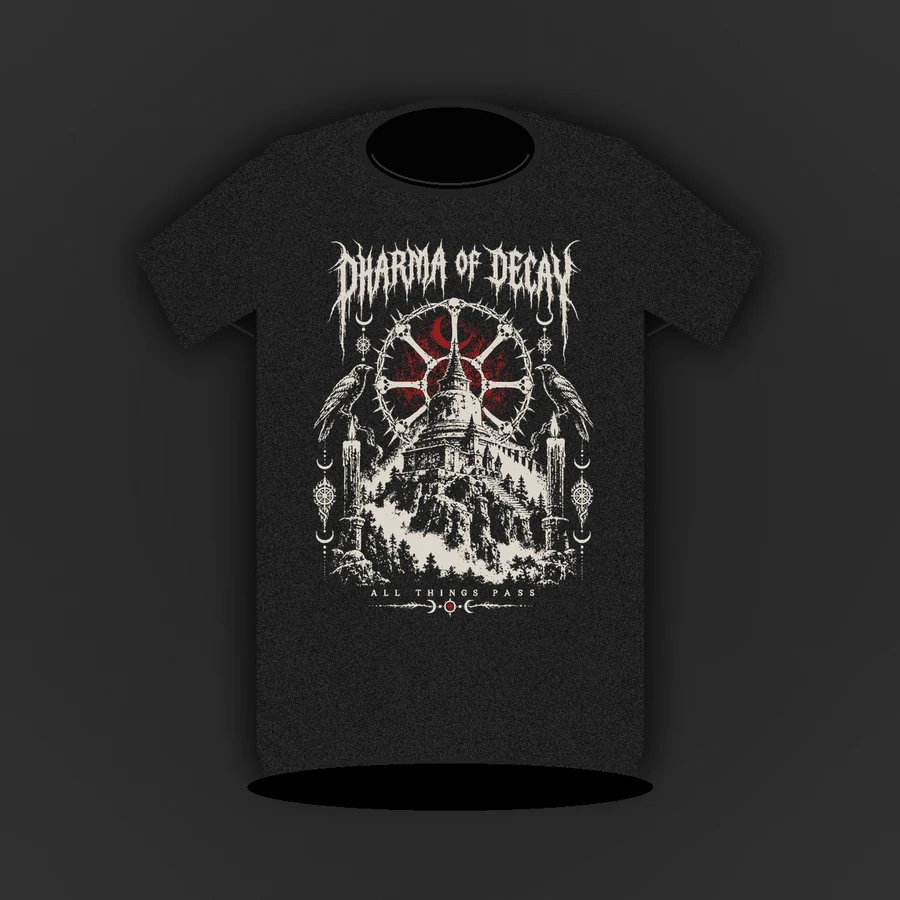
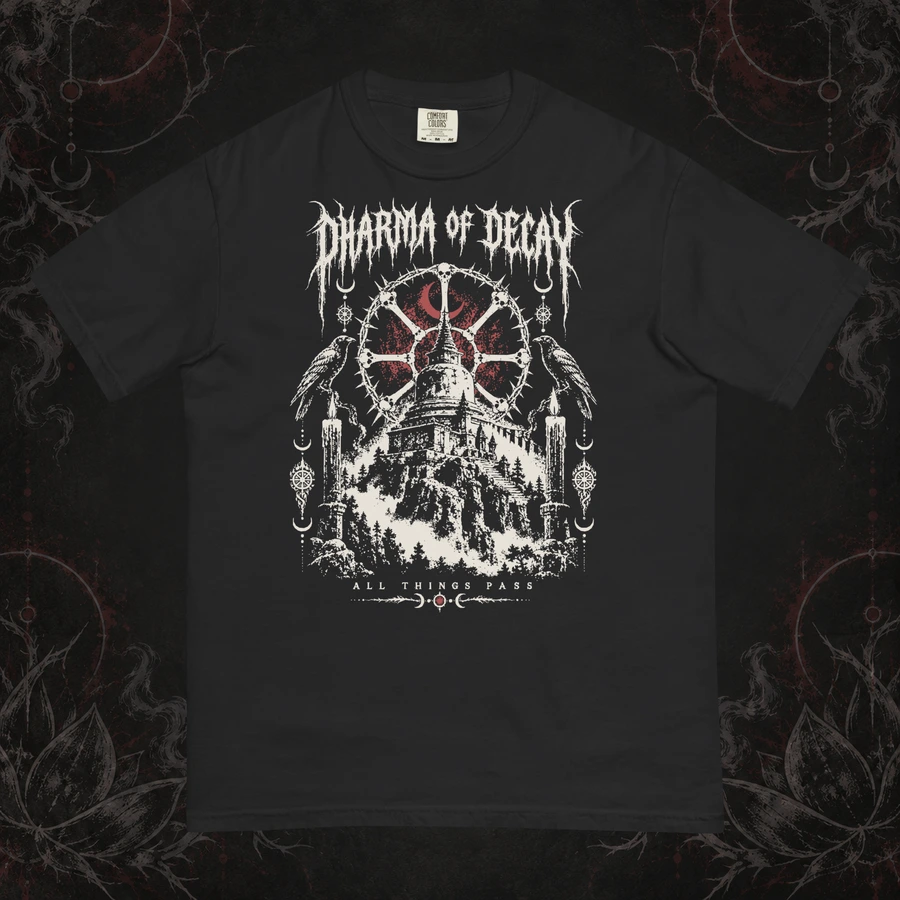
Create native Printful mockups with shared charcoal overlay scene

diff --git a/docs/26_LAUNCH_STATUS.md b/docs/26_LAUNCH_STATUS.md
@@ -6,87 +6,69 @@ provider configuration and a controlled production order.
 
 ## Confirmed decisions
 
-- Physical sample approved by the owner on 2026-10-01.
-- Garment: Comfort Colors 1717 Unisex Garment-Dyed Heavyweight T-Shirt.
-- Sizes: S, M, L, XL, XXL (SKU code `2XL`).
-- Price: **$35.00 USD per shirt in every size, plus shipping and applicable tax**,
-  selected by the owner on 2026-10-02 with Blackcraft as the market reference.
-- Four designs and 20 Black variant SKUs. Production and private staging each
-  have 20 records priced at 3500 cents, inactive and unsellable. Production’s 20
-  Printful mappings are verified; staging mappings remain empty. See [the SKU guide](25_PRODUCT_SKUS.md).
-- The corrected approved WebP from remote main commit
-  `83bbe7142fd617a1bf4fc6f546c0451d4ec7db51` fully decodes as 384 × 384.
-  It is 13,334 bytes, its RIFF length matches the file, and its SHA-256 is
[1 lines of base64/hex data omitted]
-  The incomplete PNG was removed upstream. The site uses the repaired WebP
-  with cache version `6e73625e`.
+- The owner approved the physical sample.
+- Garment: Black Comfort Colors 1717 Unisex Garment-Dyed Heavyweight T-Shirt.
+- Website launch sizes: S, M, L, XL, XXL (`2XL` in SKUs), pending confirmation
+  whether to include the saved Printful 3XL and 4XL variants.
+- Price: **$35.00 USD per shirt in every size, plus shipping and applicable tax**.
+- All four designs are saved in Printful with seven synced sizes each, S–4XL.
+  The website's 20 S–XXL variants have verified production mappings and remain
+  inactive and unsellable. See [the SKU guide](25_PRODUCT_SKUS.md).
+- The corrected approved logo fully decodes and is in use.
 
-## Software and infrastructure evidence
+## Native mockup scenes
 
-| Requirement | Evidence | Limit |
-| --- | --- | --- |
-| Source | Remote repository is `santyr/black_metal_buddha`; [PR #20](https://github.com/santyr/black_metal_buddha/pull/20) is merged, and main commit `fd0c4f6` and its 184 verified source files form the base of the reviewed follow-up release | Release metadata records the exact deployed commit and rollback targets |
-| Tests | Main passed 129 checks; the follow-up passes 131, including exact logo checksum/container length, all four shirt mockups, and $35 preview price assertions for products, cart, and FAQ | Two dependency deprecation warnings; no live provider transactions |
-| Browser | The corrected audit passed all 26 local page/viewport checks against the deployed application, verifying page identity, product images, decoding, preview cart, malformed data, and blocked storage | The post-deployment local browser rerun timed out, as did direct public navigation and optional screenshots; no post-deployment browser pass is claimed. Public HTTPS, asset checksums, and full Pillow decoding pass |
-| Printful | Production access is verified; all four products have seven synced Black CC1717 sizes, S–4XL, at $35; the 20 S–XXL production SKUs are mapped; eight signed webhook subscriptions are configured; a synthetic callback passed signature and deduplication checks | Final website size range, native storefront mockups, actual provider event delivery, and real fulfillment/canary remain |
-| Database | PostgreSQL 18.6, local peer authentication, migrations through `0007_refund_requests`, 20 reserved production SKUs | No live orders |
-| Services | Production web, worker, PostgreSQL, and daily local backup timer verified active | Reconciliation remains disabled until provider credentials are configured |
-| Staging | Separate Unix/PostgreSQL role `bmbstaging`, separate database, localhost-only service on 8091 | Public HTTPS, signed callbacks, and sandbox credentials remain |
-| Backup | Custom-format backup with checksum restored into a disposable database; migrations and reserved variants verified | Encrypted off-host copy remains |
-| Checkout | Public `/checkout` is 404 and `/api/v1/catalog` is 503 | Sales disabled |
-| Owner console | `/admin` remains 404 and credentials remain empty | Automatic approval review rejected activation without explicit owner authorization |
+All four products now use Printful Flat / Front renders of the saved Black
+Comfort Colors 1717 Medium variant. A shared charcoal texture has faint bone-gray
+lotus/thorn and muted-red eclipse overlays around its edges. Lossless scene
+assembly preserves every fully opaque native garment pixel. Storefront exports
+are 900 × 900 WebPs; saved Printful product thumbnails are 2000 × 2000 JPEGs.
+All 28 saved variants, original production files, SKUs, options, and $35 prices
+were verified unchanged after the thumbnail updates.
 
-The earlier malformed logo in commit `a33277d` is superseded by the repaired
-asset above. Earlier evidence about its failed decoding does not describe the
-current source. Pricing is settled; actual fulfillment costs must still be
-checked in the configured Printful account before sales activation.
+The Lotus render uses the 600 × 800 preview of its existing Printful-uploaded
+artwork because the API does not expose its original download URL. Its 3600 ×
+4800 production file remains unchanged. The other three use the exact saved
+production PNG URLs. These images are visual previews; the physical sample and
+canary still establish print and fulfillment quality.
 
-## Verification environment
+Scene exports and the reusable background live in
+`app/static/product-scenes/20261002-charcoal/`. The accompanying `provenance.json`
+and `printful-previews.json` record image checksums and provider readback.
+This saves product thumbnails, not a reusable Dashboard Scene object. The
+background can be uploaded into Printful's scene editor separately.
 
-The temporary filesystem quota reached 247 MB of its 300 MB user limit. An
-obsolete 116 MB review checkout was removed only after all 175 source files
-were verified as preserved in Git and a recovery archive was checked. Usage
-fell to 131 MB and normal Chromium blank-page rendering succeeded.
+## Verification and limits
 
-The page audit now waits for document content and verifies the requested URL,
-visible heading, branding, and expected product images before checking images
-and cart behavior. The previous network-idle wait timed out on otherwise
-loadable pages. This follows [Playwright navigation guidance](https://playwright.dev/python/docs/api/class-page#page-goto).
-
-Production Printful access and signing keys are now installed privately. Square
-access/signing keys, SMTP sender/access, support contact, and owner-console
-credentials remain absent. Staging has separate settings and still lacks provider
-access. Live transactions and native storefront mockups remain unverified.
+- The earlier application follow-up passed 131 tests and 26 local browser
+  checks. This asset update uses image decoding, pixel comparison, checksum
+  checks, and provider readback; no new test-suite pass is claimed.
+- Production Printful access and signed webhook subscriptions are configured.
+  Synthetic signature and deduplication checks passed. Actual provider event
+  delivery still needs the real canary.
+- Public purchasing and the owner console remain closed. Staging remains
+  isolated from production provider credentials.
+- Operational deployment, rollback, and backup records are kept privately.
+  They are excluded from this public status document.
 
 ## Remaining owner inputs
 
-Follow [the step-by-step launch handoff](28_LAUNCH_INPUT_HANDOFF.md). It covers:
+Follow [the step-by-step launch handoff](28_LAUNCH_INPUT_HANDOFF.md):
 
-1. Review the four now-published Printful products and confirm the website size
-   range and what the approved physical sample covers.
-2. Production Printful access and S–XXL mappings are verified; provide a designated
-   test store for isolated staging. Real provider callbacks still need the canary.
-3. Provide production and sandbox Square access, merchant location, signed
-   webhook configuration, and approved tax settings.
-4. Verify an email sender and supply SMTP access plus a working support address.
-5. Confirm selling countries and policies; explicitly authorize the owner console
-   if it should be enabled.
-6. Supply an encrypted off-host backup destination and staging hostname/DNS access.
-7. Complete a controlled real checkout, review fulfillment costs, and confirm
-   delivered email, tracking, and product quality.
+1. Review the four Printful products and their mockups; confirm the website size
+   range and which designs the physical sample approval covers.
+2. Provide a designated Printful test store for isolated staging.
+3. Provide Square production/sandbox access, merchant location, signed webhook
+   configuration, and approved tax settings through a secure channel.
+4. Verify the email sender; provide SMTP access and a working support address.
+5. Confirm selling countries and policies. Explicitly request owner-console
+   activation if desired.
+6. Provide an encrypted off-host backup destination and staging hostname/DNS
+   access through the secure handoff.
+7. Complete a controlled real checkout and confirm fulfillment costs, delivered
+   email, tracking, and physical product quality.
 
-Then record catalog/canary approvals, enable checkout through
-[the launch runbook](24_PHASE1_LAUNCH_RUNBOOK.md), and verify public transactions
-and monitoring. Do not mark the full store goal complete until that flow is proven.
-
-## Deployment and rollback records
-
-Current and staging point into `/opt/blackmetalbuddha/releases/`. Each release's
-`DEPLOYMENT.json` identifies its commit, deployment time, source, and rollback
-location. Previous source targets are retained for rollback. Runtime secrets,
-local databases, and backup artifacts are excluded from Git.
-
-Prices before the $35 update are archived privately at
-`/opt/blackmetalbuddha/backups/pre-price-update-20261002T020525Z/`.
-Fresh database dumps and SHA-256 sidecars are under
-`/var/backups/blackmetalbuddha/`.
+After the canary and catalog approvals are recorded, follow
+[the launch runbook](24_PHASE1_LAUNCH_RUNBOOK.md) to enable checkout and verify
+public transactions and monitoring. The full store goal remains incomplete
+until that flow is proven.

diff --git a/docs/28_LAUNCH_INPUT_HANDOFF.md b/docs/28_LAUNCH_INPUT_HANDOFF.md
@@ -36,7 +36,16 @@ These are catalog product prices, not delivered-order totals. Shipping, tax, and
 
 **Production setup completed:** Lotus of the Void, Dharma of Decay, Meditate on Death, and Longchenpa — Rest in Illusion are saved in the Black Metal Buddha store. Each has seven synced Black Comfort Colors 1717 variants at $35.00. Lotus’s generated SKUs were replaced with the reserved BMB SKUs while preserving its saved artwork, variant IDs, and prices. The other three use the approved 3600 × 4800 production PNGs pinned to a verified repository commit. All 20 existing S–XXL website variants are mapped and remain inactive.
 
-**Remaining:** Confirm the website launch range, review the three new saved products in Printful, and confirm which designs the physical sample approval covers. Native storefront mockups and the real fulfillment canary remain unverified.
+**Remaining:** Confirm the website launch range, review the three new saved products in Printful, and confirm which designs the physical sample approval covers. All four native shirt mockups are created and saved as Printful product thumbnails; the real fulfillment canary remains unverified.
+
+**Review the new mockups:**
+
+1. Open Printful → Stores → Black Metal Buddha and review the thumbnails on Lotus of the Void, Dharma of Decay, Meditate on Death, and Longchenpa — Rest in Illusion.
+2. Compare the artwork size and placement with your approved physical sample. Tell me which designs that approval covers.
+3. Confirm whether the website should retain S–XXL or include the saved Printful 3XL and 4XL variants.
+4. For a reusable scene inside Printful’s Dashboard editor, download [the charcoal background](https://blackmetalbuddha.com/static/product-scenes/20261002-charcoal/charcoal-scene-background.jpg), upload it as your background, and save the scene using the available [Custom Mockup Maker controls](https://help.printful.com/hc/en-us/articles/50266361810577-What-is-the-Custom-Mockup-Maker-and-how-to-use-it). The API updates product thumbnails; it does not create a Dashboard Scene preset. Printful may show its newer AI mockup interface instead.
+
+The shirt layers come from Printful’s native Flat / Front renderer. The faint lotus, thorn, and eclipse decorations belong to the shared background. Lotus’s mockup uses the saved uploaded artwork’s provider preview; its full-resolution production print file is preserved. The other three use their saved production PNGs. Mockup images do not replace the physical sample check.
 
 **Reference procedure:**
 
@@ -134,14 +143,7 @@ These are catalog product prices, not delivered-order totals. Shipping, tax, and
 
 ## How to hand off settings securely
 
-Production settings are in `/etc/blackmetalbuddha/blackmetalbuddha.env`. Staging settings are in `/etc/blackmetalbuddha-staging/staging.env`. If you have SSH access, edit the appropriate file with:
-
-```bash
-sudoedit /etc/blackmetalbuddha/blackmetalbuddha.env
-sudoedit /etc/blackmetalbuddha-staging/staging.env
-```
-
-Update the credential entries for the relevant step and leave the launch switches at their current values. Tell me which file is ready; I will validate it and handle activation. Alternatively, provide the location of a secure file or password-manager item that I can access. Keep secret values out of chat, Git, and this document. Square production credentials and sandbox credentials belong in their separate files.
+Keep production and staging credentials in separate private settings files or password-manager items. Use the private operational handoff for server-specific locations. Update the entries for the relevant step and leave the launch switches at their current values. Tell me which secure file or item is ready; I will validate it and handle activation. Keep secret values out of chat, Git, and this document. Square production and sandbox credentials belong in their separate configurations.
 
 Use this handoff message as you finish each step:
 
